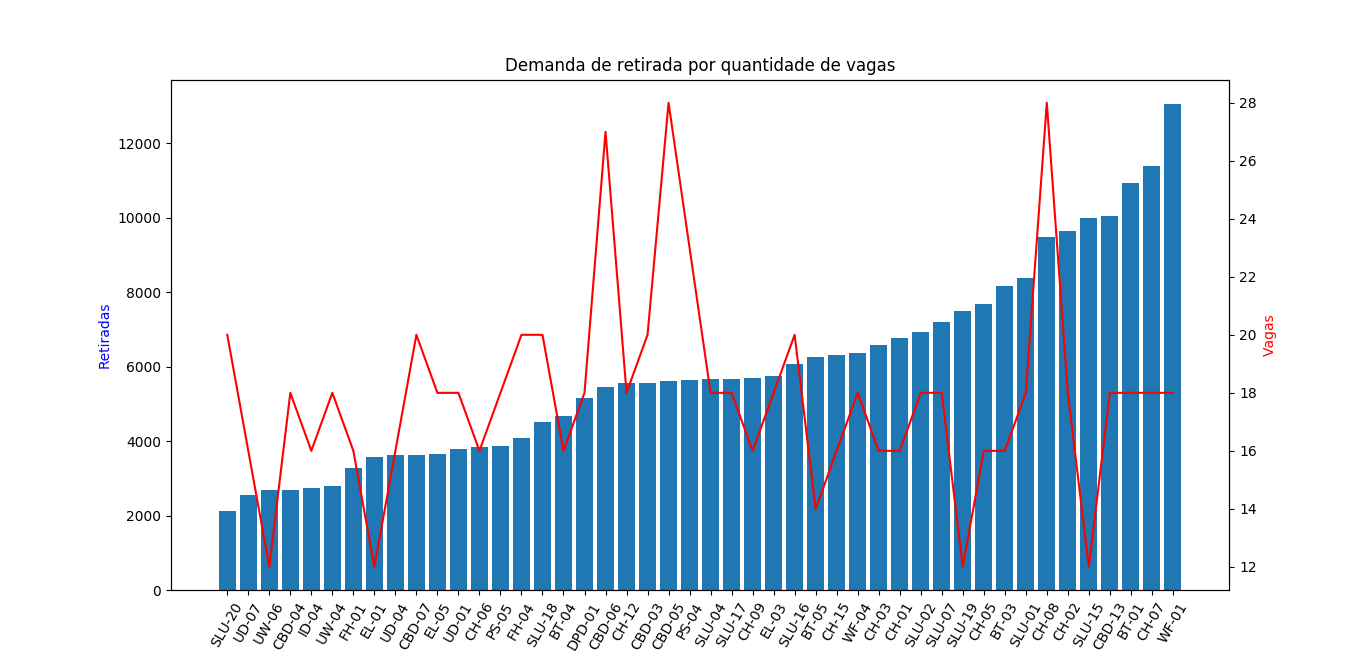
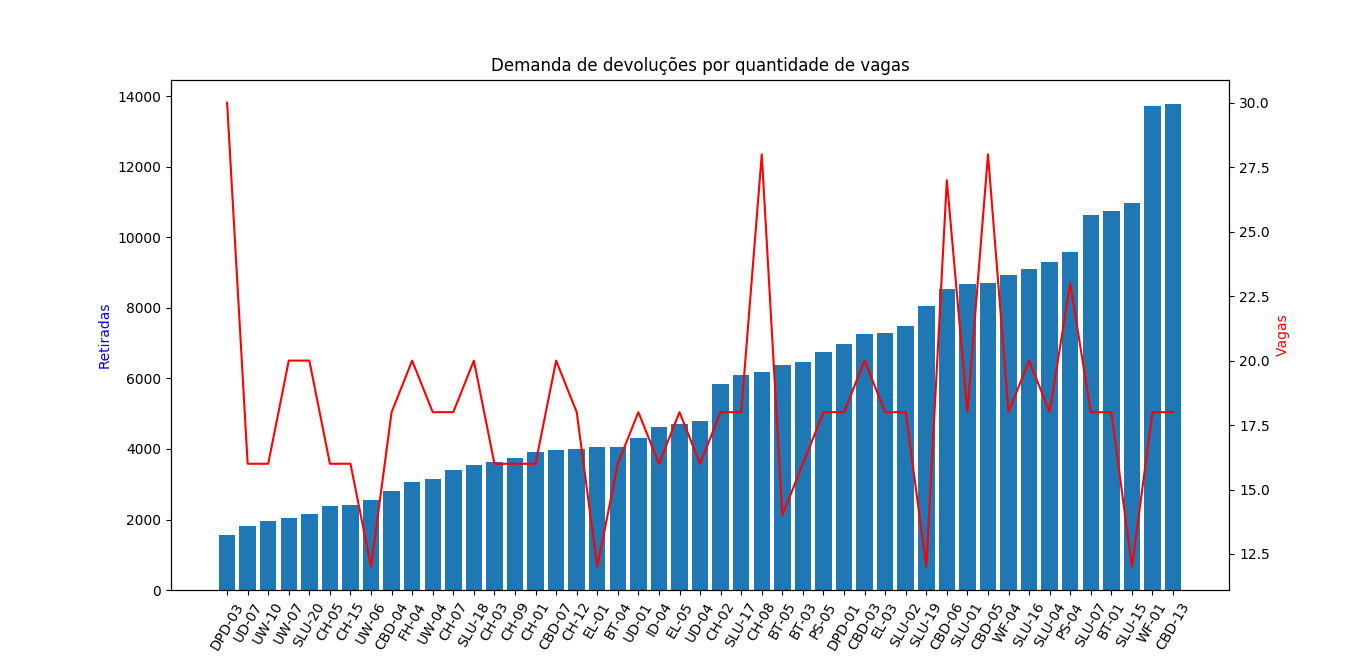
Correção de Demanda

diff --git a/main.py b/main.py
@@ -30,7 +30,7 @@ station = pd.read_csv('data/station.csv', sep =',', names=stationFields)[:numSta
 # utils.plotHistogram(tripDurations,'Tempo de viagens',op=2) # op = 2 converte para minutos
 
 # Demanda por vaga 33:56
-# originStations = list(trip.from_station_id.values)
+# originStations = list(trip.to_station_id.values)
 # demandByStation = [ (stationName,originStations.count(stationName)) for stationName in set(originStations) ]
 # demandByStation.sort(key=lambda tpl: tpl[1])
 # meio = len(demandByStation)
@@ -50,7 +50,7 @@ station = pd.read_csv('data/station.csv', sep =',', names=stationFields)[:numSta
 # ax2.set_ylabel('Vagas', color='r')
 # ax2.plot(x,[dictStations[name] for name in x], color='r')
 # # utils.plt.bar(range(len(x)),[dictStations[name]*200 for name in x],color='r')
-# utils.plt.title('Demanda de retirada por quantidade de vagas')
+# utils.plt.title('Demanda de devoluções por quantidade de vagas')
 # utils.plt.show()
 
 # exit()
